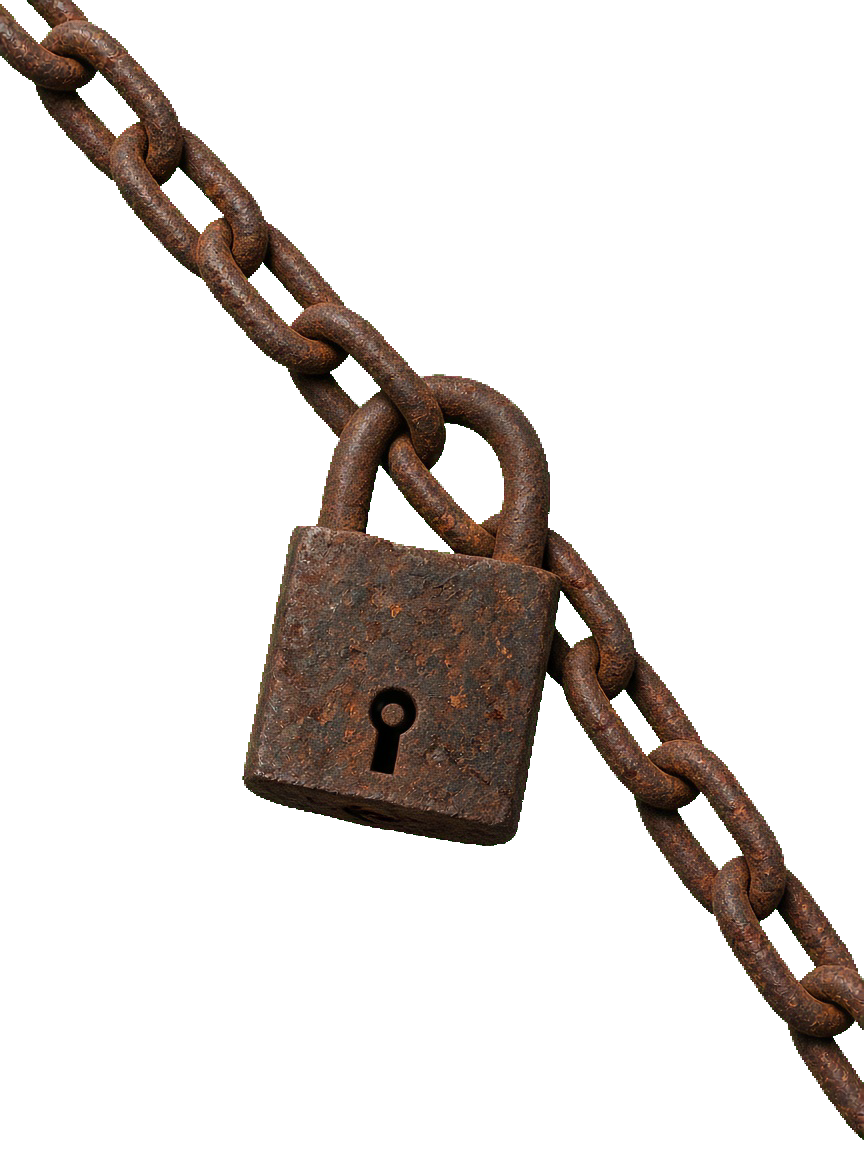
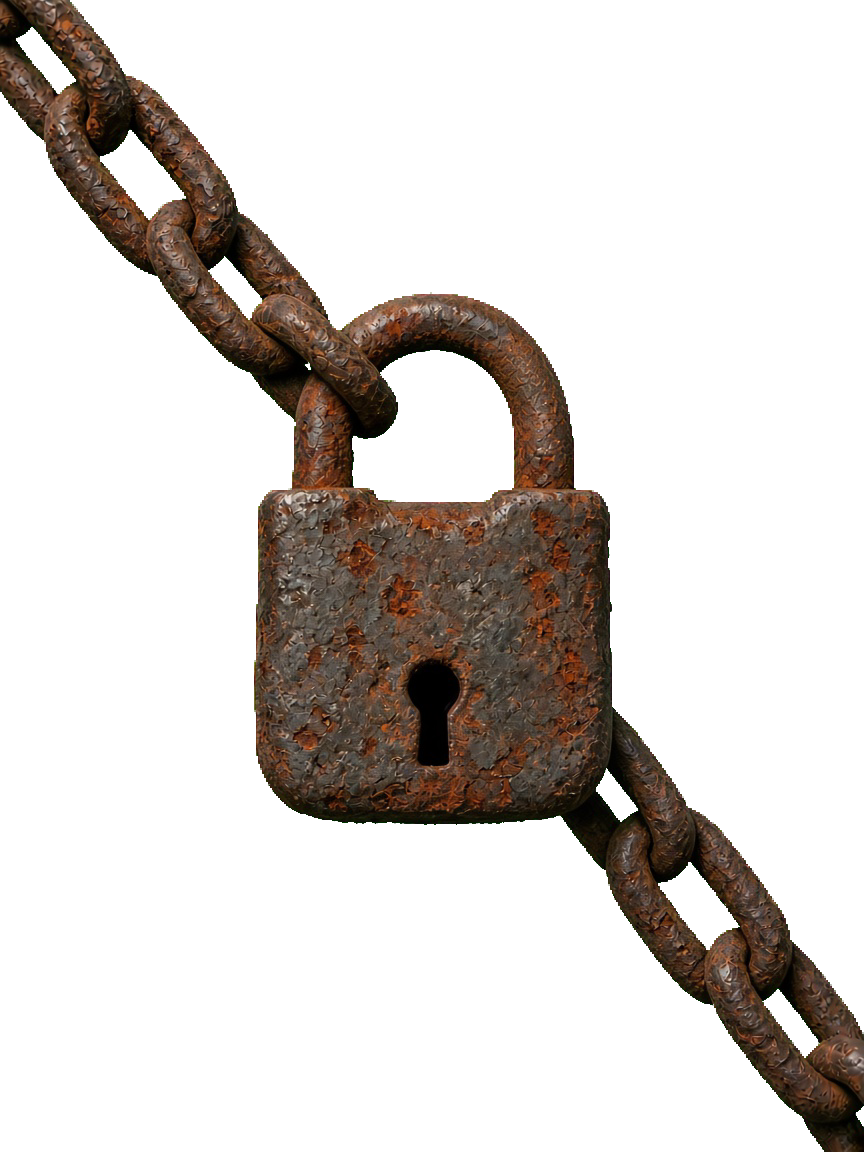
Put small dungeon picks above a frameless preview and match the one-chain padlock.

Changed region(s): [[0.0, 0.0, 1.0, 1.0]]

diff --git a/index.html b/index.html
@@ -3840,14 +3840,14 @@
     }
     .dungeon-preview {
       position: relative;
-      width: min(920px, 84vw);
-      height: min(38vh, 360px);
+      width: min(1100px, 92vw);
+      height: min(52vh, 560px);
       max-width: 100%;
-      border-radius: 16px;
+      border-radius: 0;
       overflow: hidden;
-      border: 2px solid rgba(228, 177, 90, 0.7);
-      background: #120c0a;
-      box-shadow: 0 12px 28px rgba(0, 0, 0, 0.45);
+      border: 0;
+      background: #0c0908;
+      box-shadow: none;
     }
     .dungeon-preview img {
       display: block;
@@ -3870,9 +3870,9 @@
     .dungeon-columns {
       display: grid;
       grid-template-columns: repeat(3, minmax(0, 1fr));
-      gap: 18px;
-      width: min(860px, 78vw);
-      height: min(220px, 28vh);
+      gap: 14px;
+      width: min(640px, 72vw);
+      height: min(132px, 16vh);
       max-width: 100%;
       min-height: 0;
       align-self: center;
@@ -3925,28 +3925,28 @@
       position: absolute;
       left: 0;
       right: 0;
-      bottom: 12%;
+      bottom: 28%;
       z-index: 3;
       margin: 0;
       text-align: center;
-      font-size: clamp(32px, 4.6vw, 56px);
+      font-size: clamp(22px, 3.2vw, 36px);
       font-weight: 800;
       letter-spacing: 0.08em;
       color: #fff6e0;
-      text-shadow: 0 4px 0 #1a120c, 0 0 22px rgba(0, 0, 0, 0.85);
+      text-shadow: 0 3px 0 #1a120c, 0 0 16px rgba(0, 0, 0, 0.85);
       pointer-events: none;
     }
     .dungeon-col .col-sub {
       position: absolute;
       left: 0;
       right: 0;
-      bottom: 5%;
+      bottom: 8%;
       z-index: 3;
       margin: 0;
       text-align: center;
-      font-size: clamp(13px, 1.4vw, 18px);
+      font-size: clamp(11px, 1.2vw, 14px);
       font-weight: 800;
-      letter-spacing: 0.14em;
+      letter-spacing: 0.1em;
       color: #f6d48a;
       text-shadow: 0 2px 0 #1a120c;
       pointer-events: none;
@@ -3976,15 +3976,14 @@
       box-shadow: none;
     }
     @media (max-width: 760px) {
-      .dungeon-preview { height: 22vh; }
+      .dungeon-preview { height: 36vh; }
       .dungeon-columns {
-        grid-template-columns: 1fr;
-        width: min(360px, 86vw);
-        height: auto;
-        max-height: none;
-        gap: 12px;
+        grid-template-columns: repeat(3, minmax(0, 1fr));
+        width: min(420px, 92vw);
+        height: 88px;
+        gap: 8px;
       }
-      .dungeon-col { min-height: 22vh; height: 22vh; }
+      .dungeon-col { min-height: 0; height: 100%; }
     }
     .small-btn {
       min-width: 0;
@@ -7446,7 +7445,7 @@
     function dungeonChainHtml(count) {
       const n = Math.max(0, Math.min(2, Number(count) || 0));
       if (n <= 0) return "";
-      const src = n >= 2 ? "chain-lock.png?v=1" : "chain-one.png?v=1";
+      const src = n >= 2 ? "chain-lock.png?v=1" : "chain-one.png?v=2";
       return `<div class="chain-wrap" aria-hidden="true"><img class="chain-art" src="${src}" alt=""></div>`;
     }
 
@@ -7511,11 +7510,11 @@
       root.innerHTML = `
         <div class="cast-screen dungeon-pick">
           <h1 class="cast-title">挑戦するダンジョンを決めてください</h1>
+          <div class="dungeon-columns">${columns}</div>
           <div class="dungeon-preview">
             <p class="preview-empty">ダンジョンにマウスを乗せる</p>
             <img alt="" hidden>
           </div>
-          <div class="dungeon-columns">${columns}</div>
           <div class="cast-actions">
             <button type="button" class="cast-back" data-action="character">もどる</button>
             <button type="button" class="primary cast-start" data-action="dungeon-enter" disabled>挑戦開始</button>
@@ -7675,7 +7674,7 @@
               ${sheetFig("dungeon-cave.jpg?v=1", "骸洞窟", "land-ref")}
               ${sheetFig("dungeon-50.jpg?v=1", "竜の遺骸城", "land-ref")}
               ${sheetFig("dungeon-100.jpg?v=1", "深淵なる寝所", "land-ref")}
-              ${sheetFig("chain-one.png?v=1", "錆びた鎖（錠前1）", "cut-ref")}
+              ${sheetFig("chain-one.png?v=2", "錆びた鎖（錠前1）", "cut-ref")}
               ${sheetFig("chain-lock.png?v=1", "錆びた鎖（錠前2）", "cut-ref")}
             </div>
             <h3>祝福</h3>
